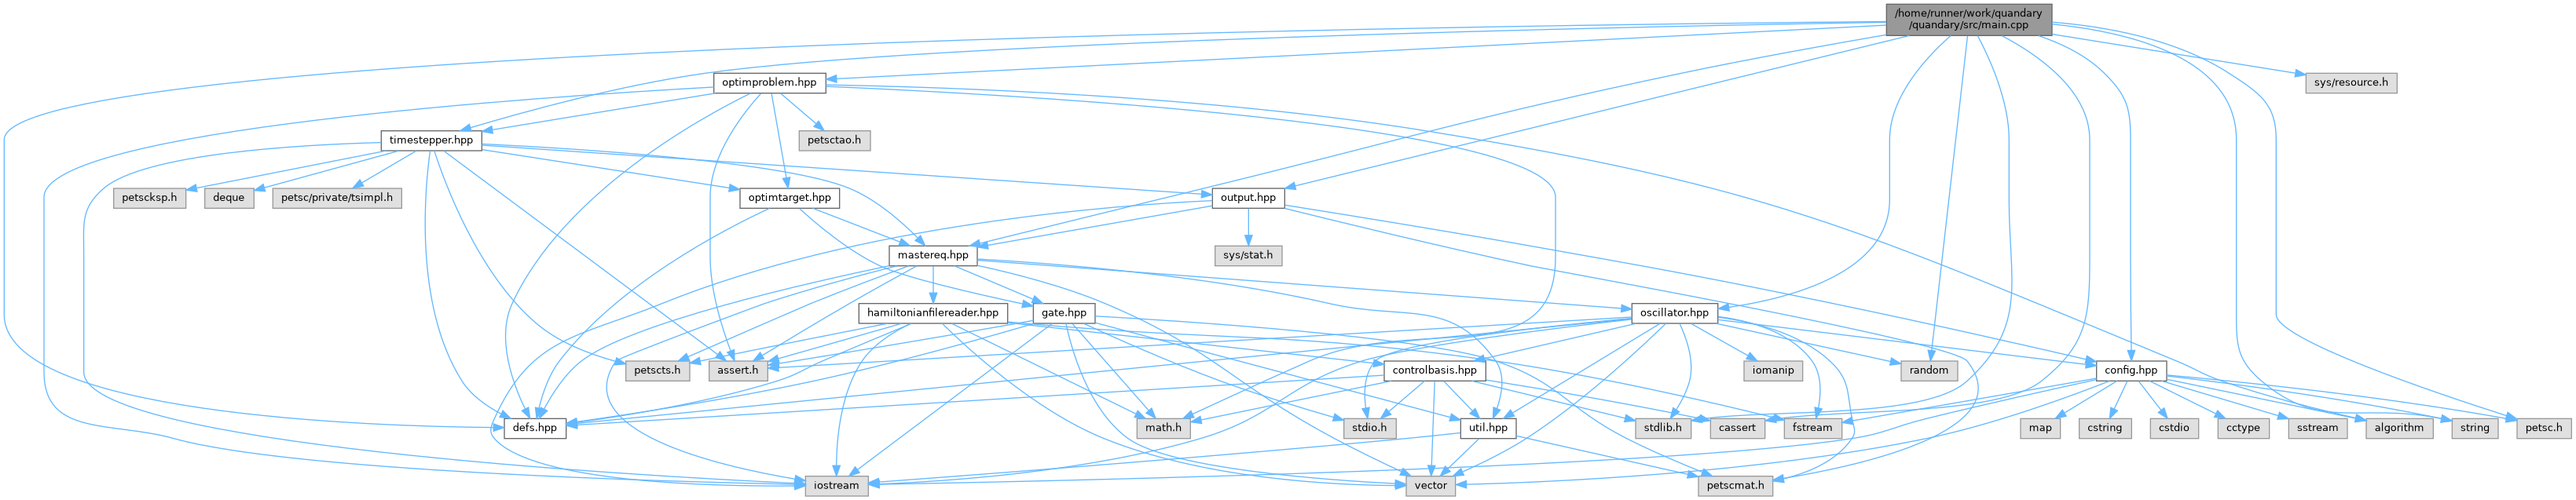
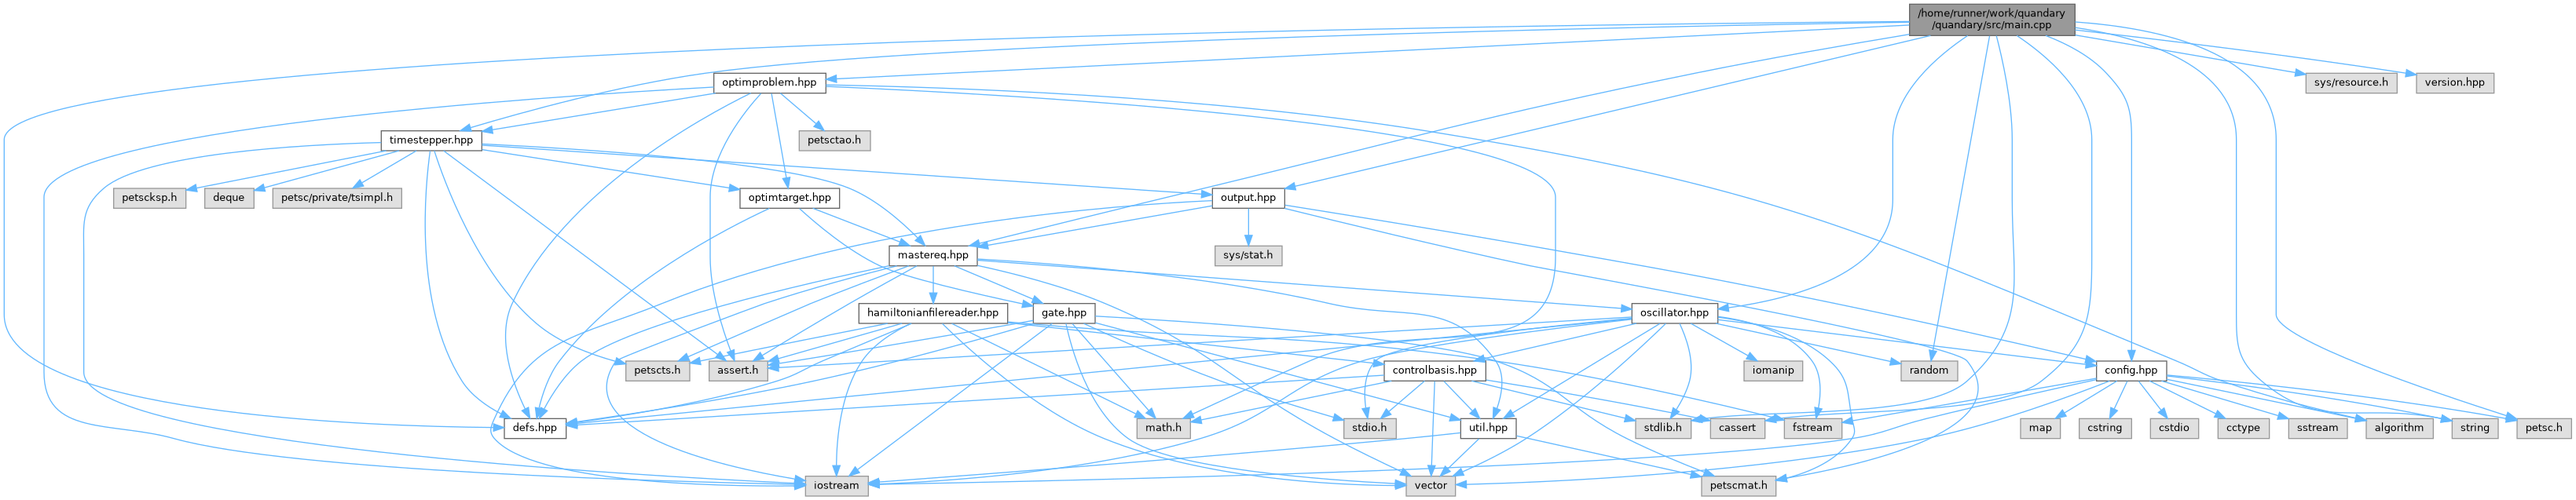
deploy: 45ed5f1180bf3d0a74f53cfae8acb20f404cf3af

diff --git a/doxygen/main_8cpp.html b/doxygen/main_8cpp.html
@@ -99,38 +99,41 @@ $(function() {
 <code>#include &quot;<a class="el" href="output_8hpp_source.html">output.hpp</a>&quot;</code><br />
 <code>#include &quot;petsc.h&quot;</code><br />
 <code>#include &lt;random&gt;</code><br />
+<code>#include &quot;version.hpp&quot;</code><br />
 </div><div class="textblock"><div class="dynheader">
 Include dependency graph for main.cpp:</div>
 <div class="dyncontent">
 <div class="center"><img src="main_8cpp__incl.png" border="0" usemap="#a_2home_2runner_2work_2quandary_2quandary_2src_2main_8cpp" alt=""/></div>
 <map name="a_2home_2runner_2work_2quandary_2quandary_2src_2main_8cpp" id="a_2home_2runner_2work_2quandary_2quandary_2src_2main_8cpp">
-<area shape="rect" title=" " alt="" coords="2401,5,2612,45"/>
+<area shape="rect" title=" " alt="" coords="2431,5,2641,45"/>
 <area shape="rect" href="timestepper_8hpp.html" title=" " alt="" coords="485,167,613,192"/>
-<area shape="poly" title=" " alt="" coords="2401,31,2076,38,1642,50,1212,69,1033,82,898,96,815,110,733,129,600,165,598,160,732,124,814,105,897,91,1033,76,1212,64,1642,45,2076,32,2401,26"/>
+<area shape="poly" title=" " alt="" coords="2431,31,2101,37,1658,50,1219,69,1036,81,898,96,815,110,733,129,600,165,598,160,732,124,814,105,897,91,1036,76,1218,64,1658,44,2101,32,2431,26"/>
 <area shape="rect" href="mastereq_8hpp.html" title=" " alt="" coords="1132,313,1244,339"/>
-<area shape="poly" title=" " alt="" coords="2402,47,2141,96,1836,166,1533,243,1248,313,1247,307,1531,237,1835,161,2139,91,2401,42"/>
+<area shape="poly" title=" " alt="" coords="2431,46,2158,96,1844,166,1533,243,1247,313,1246,307,1531,237,1843,160,2157,91,2430,41"/>
 <area shape="rect" href="defs_8hpp.html" title="Core type definitions and enumerations for Quandary quantum optimal control." alt="" coords="642,533,721,559"/>
-<area shape="poly" title=" " alt="" coords="2401,30,1826,38,1434,47,1025,61,638,81,313,106,186,122,89,139,28,159,13,169,8,179,8,400,13,422,27,441,51,459,81,474,161,499,257,517,361,529,463,537,628,542,628,547,463,542,361,535,256,522,160,504,79,479,48,463,24,445,8,424,3,401,3,177,9,165,26,154,88,134,185,117,313,101,638,75,1025,56,1434,42,1826,33,2401,25"/>
+<area shape="poly" title=" " alt="" coords="2431,30,1850,38,1453,47,1038,60,647,80,317,106,188,121,91,139,28,158,13,168,8,179,8,400,13,422,27,441,51,459,81,474,161,499,257,517,361,529,463,537,628,542,628,547,463,542,361,535,256,522,160,504,79,479,48,463,24,445,8,424,3,401,3,177,9,165,26,154,89,134,188,116,317,100,646,74,1038,55,1453,41,1849,32,2430,25"/>
 <area shape="rect" href="oscillator_8hpp.html" title=" " alt="" coords="2077,387,2187,412"/>
-<area shape="poly" title=" " alt="" coords="2485,47,2460,71,2435,102,2416,139,2410,158,2408,178,2408,254,2402,287,2387,314,2364,337,2335,355,2302,370,2268,381,2201,394,2200,389,2266,375,2300,365,2332,351,2360,333,2383,311,2397,285,2403,254,2403,178,2405,157,2411,136,2431,99,2456,68,2481,44"/>
+<area shape="poly" title=" " alt="" coords="2506,48,2476,70,2445,101,2421,137,2414,157,2412,178,2412,254,2406,287,2390,315,2366,338,2337,356,2303,371,2268,382,2201,395,2200,389,2267,376,2301,366,2334,352,2363,334,2386,312,2401,286,2407,254,2407,178,2409,156,2417,135,2441,97,2472,66,2503,43"/>
 <area shape="rect" title=" " alt="" coords="2082,533,2153,559"/>
-<area shape="poly" title=" " alt="" coords="2520,44,2545,103,2556,140,2560,178,2560,254,2563,325,2562,383,2558,409,2548,435,2531,461,2506,487,2479,503,2442,514,2351,526,2251,530,2167,536,2166,531,2251,525,2350,520,2441,509,2477,498,2502,483,2527,458,2543,433,2552,408,2557,382,2557,325,2555,254,2555,178,2551,141,2540,104,2515,47"/>
+<area shape="poly" title=" " alt="" coords="2544,45,2557,104,2564,178,2564,254,2566,325,2565,383,2559,410,2548,435,2531,461,2506,487,2479,503,2442,514,2350,525,2251,530,2167,536,2166,531,2251,525,2350,520,2441,509,2477,498,2502,483,2527,458,2544,433,2554,408,2560,382,2561,325,2559,254,2559,178,2551,105,2539,46"/>
 <area shape="rect" title=" " alt="" coords="2177,533,2247,559"/>
-<area shape="poly" title=" " alt="" coords="2550,43,2586,65,2623,95,2651,133,2660,155,2663,178,2663,327,2661,377,2654,418,2635,453,2600,487,2573,502,2536,513,2444,524,2345,530,2261,536,2260,531,2345,524,2443,519,2535,507,2571,497,2597,483,2631,450,2649,416,2656,377,2657,327,2657,178,2654,156,2647,135,2619,99,2583,70,2547,48"/>
+<area shape="poly" title=" " alt="" coords="2569,43,2600,66,2631,97,2655,135,2663,156,2665,178,2665,327,2664,378,2656,418,2636,453,2600,487,2573,502,2536,512,2444,524,2345,529,2261,536,2260,531,2345,524,2443,519,2534,507,2571,497,2597,483,2632,450,2651,416,2658,377,2660,327,2660,178,2658,157,2651,137,2627,101,2596,70,2566,48"/>
 <area shape="rect" href="config_8hpp.html" title=" " alt="" coords="2669,460,2758,485"/>
-<area shape="poly" title=" " alt="" coords="2596,43,2641,62,2680,91,2698,111,2709,130,2713,151,2715,178,2715,327,2716,446,2710,446,2709,327,2709,178,2708,152,2704,132,2694,114,2677,95,2638,67,2594,48"/>
+<area shape="poly" title=" " alt="" coords="2605,43,2646,63,2683,91,2700,112,2710,131,2715,152,2716,178,2716,327,2716,446,2711,446,2711,327,2711,178,2710,152,2705,133,2696,115,2679,95,2644,67,2603,48"/>
 <area shape="rect" title=" " alt="" coords="3121,533,3180,559"/>
-<area shape="poly" title=" " alt="" coords="2613,28,2692,41,2731,52,2768,67,2800,86,2826,111,2843,141,2849,178,2849,401,2850,427,2854,447,2863,465,2880,483,2908,503,2933,515,2958,521,2983,523,3039,523,3108,531,3107,536,3038,529,2983,529,2957,526,2931,520,2905,508,2877,487,2859,468,2849,449,2845,427,2844,401,2844,178,2838,143,2822,114,2797,91,2766,72,2730,57,2691,46,2612,33"/>
+<area shape="poly" title=" " alt="" coords="2642,33,2712,48,2747,59,2779,74,2807,93,2829,117,2844,145,2849,178,2849,401,2850,427,2854,447,2863,465,2880,483,2908,503,2933,515,2958,521,2983,523,3039,523,3108,531,3107,536,3038,529,2983,529,2957,526,2931,520,2905,508,2877,487,2859,468,2849,449,2845,427,2844,401,2844,178,2839,146,2825,120,2804,97,2777,79,2745,64,2711,53,2641,38"/>
 <area shape="rect" title=" " alt="" coords="3204,533,3273,559"/>
-<area shape="poly" title=" " alt="" coords="2612,26,2667,32,2726,44,2785,63,2839,91,2865,109,2884,126,2896,148,2900,178,2900,400,2908,412,2931,427,3010,463,3106,499,3191,527,3189,532,3104,504,3008,468,2929,432,2904,416,2895,401,2895,178,2891,150,2880,129,2861,113,2836,96,2783,68,2725,49,2667,37,2612,31"/>
+<area shape="poly" title=" " alt="" coords="2642,25,2727,36,2770,47,2811,61,2846,81,2874,107,2893,139,2900,178,2900,400,2908,412,2931,427,3010,463,3106,499,3191,527,3189,532,3104,504,3008,468,2929,432,2904,416,2895,401,2895,178,2888,141,2870,110,2843,86,2808,66,2769,52,2726,41,2641,31"/>
 <area shape="rect" title=" " alt="" coords="2420,460,2492,485"/>
-<area shape="poly" title=" " alt="" coords="2507,46,2462,446,2456,446,2502,45"/>
+<area shape="poly" title=" " alt="" coords="2535,46,2463,447,2458,446,2530,45"/>
 <area shape="rect" href="output_8hpp.html" title=" " alt="" coords="1543,240,1635,265"/>
-<area shape="poly" title=" " alt="" coords="2431,48,1649,239,1648,234,2430,43"/>
+<area shape="poly" title=" " alt="" coords="2458,48,1649,240,1648,235,2457,43"/>
 <area shape="rect" title=" " alt="" coords="2935,93,3051,119"/>
-<area shape="poly" title=" " alt="" coords="2613,41,2922,91,2921,96,2612,46"/>
+<area shape="poly" title=" " alt="" coords="2642,42,2922,90,2921,95,2641,47"/>
 <area shape="rect" href="optimproblem_8hpp.html" title=" " alt="" coords="909,93,1051,119"/>
-<area shape="poly" title=" " alt="" coords="2401,35,1065,103,1065,98,2401,29"/>
+<area shape="poly" title=" " alt="" coords="2430,35,1065,103,1065,98,2430,29"/>
+<area shape="rect" title=" " alt="" coords="3076,93,3175,119"/>
+<area shape="poly" title=" " alt="" coords="2642,36,2833,59,3063,91,3062,96,2833,64,2641,41"/>
 <area shape="rect" title=" " alt="" coords="347,240,511,265"/>
 <area shape="poly" title=" " alt="" coords="531,194,462,235,460,230,529,190"/>
 <area shape="rect" title=" " alt="" coords="797,460,878,485"/>
@@ -169,8 +172,8 @@ Include dependency graph for main.cpp:</div>
 <area shape="poly" title=" " alt="" coords="2141,411,2152,445,2155,465,2153,486,2136,523,2131,521,2148,485,2150,465,2147,446,2136,413"/>
 <area shape="poly" title=" " alt="" coords="2122,414,2050,480,1999,522,1944,561,1903,584,1863,603,1861,599,1901,580,1941,556,1996,518,2047,476,2119,410"/>
 <area shape="poly" title=" " alt="" coords="2114,414,1927,528,1924,524,2112,410"/>
-<area shape="rect" title=" " alt="" coords="2162,607,2257,632"/>
-<area shape="poly" title=" " alt="" coords="2187,402,2223,408,2261,418,2298,435,2331,458,2346,475,2353,492,2360,533,2363,547,2360,560,2342,580,2319,595,2271,612,2269,607,2317,590,2338,576,2355,557,2358,547,2355,534,2348,493,2341,478,2328,462,2296,439,2259,423,2222,413,2187,407"/>
+<area shape="rect" title=" " alt="" coords="2166,607,2261,632"/>
+<area shape="poly" title=" " alt="" coords="2187,402,2223,408,2261,418,2298,435,2331,458,2346,475,2353,492,2360,533,2363,547,2360,560,2343,579,2321,594,2275,612,2273,607,2319,589,2339,575,2355,557,2358,547,2355,534,2348,493,2341,478,2328,462,2296,439,2259,423,2222,413,2187,407"/>
 <area shape="poly" title=" " alt="" coords="2077,409,1894,433,1801,448,1734,463,1675,486,1632,512,1589,538,1529,561,1417,588,1303,605,1200,615,1120,619,1119,614,1200,609,1303,600,1415,583,1527,556,1586,533,1629,507,1673,482,1733,457,1800,442,1893,428,2077,404"/>
 <area shape="rect" title=" " alt="" coords="2271,533,2345,559"/>
 <area shape="poly" title=" " alt="" coords="2188,401,2220,407,2253,417,2284,434,2309,458,2316,473,2319,489,2317,520,2312,520,2314,490,2311,475,2305,462,2281,438,2251,422,2218,412,2187,406"/>
@@ -188,7 +191,7 @@ Include dependency graph for main.cpp:</div>
 <area shape="poly" title=" " alt="" coords="1892,482,2164,531,2163,536,1891,487"/>
 <area shape="poly" title=" " alt="" coords="1840,484,1876,521,1872,525,1836,488"/>
 <area shape="poly" title=" " alt="" coords="1884,561,1845,599,1841,595,1881,557"/>
-<area shape="poly" title=" " alt="" coords="1931,553,2149,602,2148,607,1930,558"/>
+<area shape="poly" title=" " alt="" coords="1931,553,2153,602,2152,607,1930,558"/>
 <area shape="poly" title=" " alt="" coords="1859,554,1790,561,1405,595,1119,617,1119,611,1405,589,1789,556,1859,549"/>
 <area shape="poly" title=" " alt="" coords="2686,488,2584,525,2519,545,2453,561,2284,589,2118,606,1972,616,1867,620,1867,614,1972,610,2117,601,2284,584,2451,556,2518,540,2583,520,2684,483"/>
 <area shape="poly" title=" " alt="" coords="2669,486,2453,536,2406,550,2358,561,2243,575,2091,586,1727,603,1120,620,1120,614,1727,598,2091,581,2243,569,2357,556,2404,545,2451,531,2668,481"/>
@@ -212,7 +215,7 @@ Include dependency graph for main.cpp:</div>
 <area shape="poly" title=" " alt="" coords="1367,411,1464,521,1460,525,1363,414"/>
 <area shape="poly" title=" " alt="" coords="1359,411,1367,442,1382,482,1405,523,1420,541,1437,556,1463,570,1500,581,1593,598,1693,608,1776,613,1776,619,1692,613,1592,603,1499,586,1461,575,1435,561,1416,545,1401,526,1377,484,1362,443,1354,413"/>
 <area shape="poly" title=" " alt="" coords="1395,409,1847,529,1845,534,1394,414"/>
-<area shape="poly" title=" " alt="" coords="1394,400,1655,419,1800,436,1860,446,1905,457,1955,479,1991,503,2025,528,2072,556,2168,599,2166,604,2069,561,2022,533,1988,507,1952,484,1903,463,1859,451,1799,441,1654,424,1394,405"/>
+<area shape="poly" title=" " alt="" coords="1394,400,1655,419,1800,436,1860,446,1905,457,1955,479,1991,503,2025,529,2072,556,2170,599,2168,604,2069,561,2022,533,1988,507,1952,484,1903,463,1859,451,1799,441,1654,424,1394,405"/>
 <area shape="poly" title=" " alt="" coords="1341,414,1093,600,1090,596,1338,410"/>
 <area shape="poly" title=" " alt="" coords="1316,411,1295,415,992,466,991,460,1294,409,1315,406"/>
 <area shape="poly" title=" " alt="" coords="1130,415,892,462,891,457,1129,409"/>
@@ -224,9 +227,9 @@ Include dependency graph for main.cpp:</div>
 <area shape="poly" title=" " alt="" coords="1283,407,1304,409,1473,422,1605,428,1736,437,1904,457,2101,493,2258,529,2257,535,2100,498,1904,463,1736,443,1604,433,1473,427,1304,415,1283,413"/>
 <area shape="poly" title=" " alt="" coords="1149,415,992,459,990,454,1147,409"/>
 <area shape="poly" title=" " alt="" coords="1544,265,1258,315,1257,310,1543,259"/>
-<area shape="poly" title=" " alt="" coords="1636,263,1949,336,2231,390,2414,429,2477,445,2506,458,2516,475,2521,490,2519,505,2513,519,2490,543,2453,563,2409,580,2362,594,2271,612,2270,607,2360,588,2408,575,2451,558,2486,539,2509,516,2514,504,2515,491,2511,477,2502,462,2475,450,2413,434,2230,395,1947,341,1634,268"/>
+<area shape="poly" title=" " alt="" coords="1636,263,1949,336,2231,390,2414,429,2477,445,2506,458,2516,475,2520,490,2519,505,2513,519,2490,542,2454,563,2411,579,2364,593,2275,612,2274,607,2363,588,2409,574,2452,558,2487,538,2509,516,2514,504,2515,491,2511,477,2502,462,2475,450,2413,434,2230,395,1947,341,1634,268"/>
 <area shape="poly" title=" " alt="" coords="1543,258,1418,267,1242,288,1143,305,1042,327,941,355,844,389,772,416,715,439,691,454,670,474,650,500,632,534,627,547,631,557,657,575,696,589,745,600,800,608,914,615,1012,616,1012,622,914,621,799,613,744,605,694,594,654,580,627,560,622,547,627,532,645,497,666,470,688,450,712,434,770,411,842,384,939,350,1040,322,1142,299,1241,282,1418,261,1543,253"/>
-<area shape="poly" title=" " alt="" coords="1636,259,1948,311,2142,346,2334,384,2656,455,2655,460,2333,389,2141,351,1948,316,1635,264"/>
+<area shape="poly" title=" " alt="" coords="1636,259,1948,311,2143,346,2337,384,2656,455,2654,460,2335,389,2142,351,1948,316,1635,264"/>
 <area shape="rect" title=" " alt="" coords="1547,313,1632,339"/>
 <area shape="poly" title=" " alt="" coords="1592,266,1592,300,1587,300,1587,266"/>
 <area shape="poly" title=" " alt="" coords="1036,263,1146,306,1144,311,1034,268"/>
@@ -237,7 +240,7 @@ Include dependency graph for main.cpp:</div>
 <area shape="poly" title=" " alt="" coords="1052,107,1293,120,1602,147,1747,165,1868,188,1915,202,1951,216,1974,233,1983,251,1983,327,1981,354,1975,375,1965,392,1952,405,1918,422,1876,430,1774,437,1720,446,1668,462,1519,530,1517,525,1666,458,1719,440,1774,432,1875,425,1917,417,1949,401,1961,389,1970,373,1975,353,1977,327,1977,252,1970,236,1948,221,1913,207,1866,194,1746,171,1601,152,1293,126,1051,113"/>
 <area shape="poly" title=" " alt="" coords="909,114,684,128,401,156,269,175,159,197,117,210,85,223,65,237,59,252,59,474,62,500,73,517,89,529,110,536,162,545,222,556,292,570,386,582,612,600,841,610,1012,614,1011,620,841,615,612,605,385,588,291,576,221,561,161,550,108,542,86,534,69,521,57,501,53,474,53,251,61,234,82,219,115,205,158,192,268,170,401,151,684,123,908,108"/>
 <area shape="poly" title=" " alt="" coords="971,121,952,143,931,175,914,212,907,252,907,327,909,360,916,392,933,446,928,448,910,394,904,361,901,327,901,251,909,210,926,172,948,140,967,117"/>
-<area shape="poly" title=" " alt="" coords="1051,105,1192,109,1383,119,1598,136,1815,164,1965,190,2092,216,2202,243,2304,274,2404,309,2511,350,2772,458,2829,483,2918,510,2999,530,2998,535,2917,515,2827,488,2770,462,2509,355,2402,314,2302,279,2201,249,2091,221,1964,195,1814,169,1597,141,1382,124,1192,115,1051,111"/>
+<area shape="poly" title=" " alt="" coords="1051,105,1192,109,1383,119,1598,136,1815,164,1965,190,2092,216,2202,243,2304,274,2404,309,2511,350,2772,458,2829,483,2918,510,2999,530,2998,535,2917,515,2827,488,2770,462,2509,355,2403,314,2302,279,2201,248,2091,221,1964,195,1814,169,1597,141,1382,124,1192,115,1051,111"/>
 <area shape="poly" title=" " alt="" coords="985,119,1004,226,998,227,979,120"/>
 <area shape="rect" title=" " alt="" coords="1017,167,1108,192"/>
 <area shape="poly" title=" " alt="" coords="995,117,1040,155,1037,160,992,121"/>
